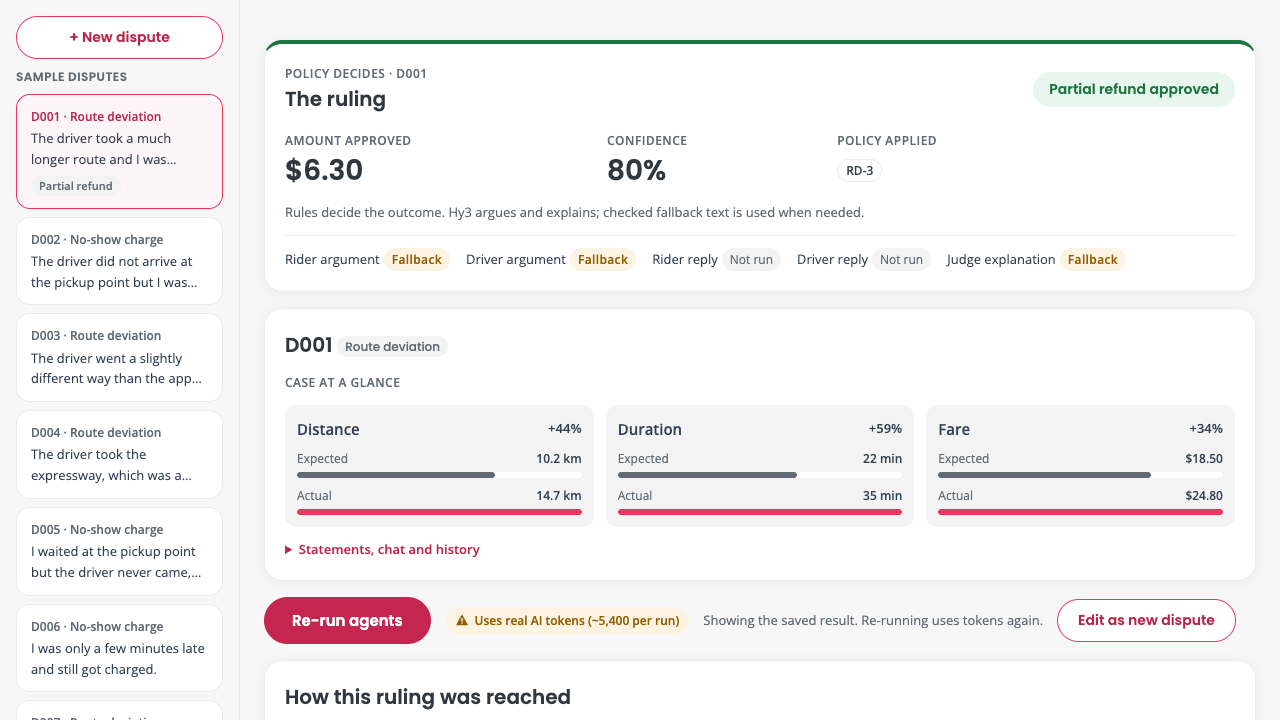
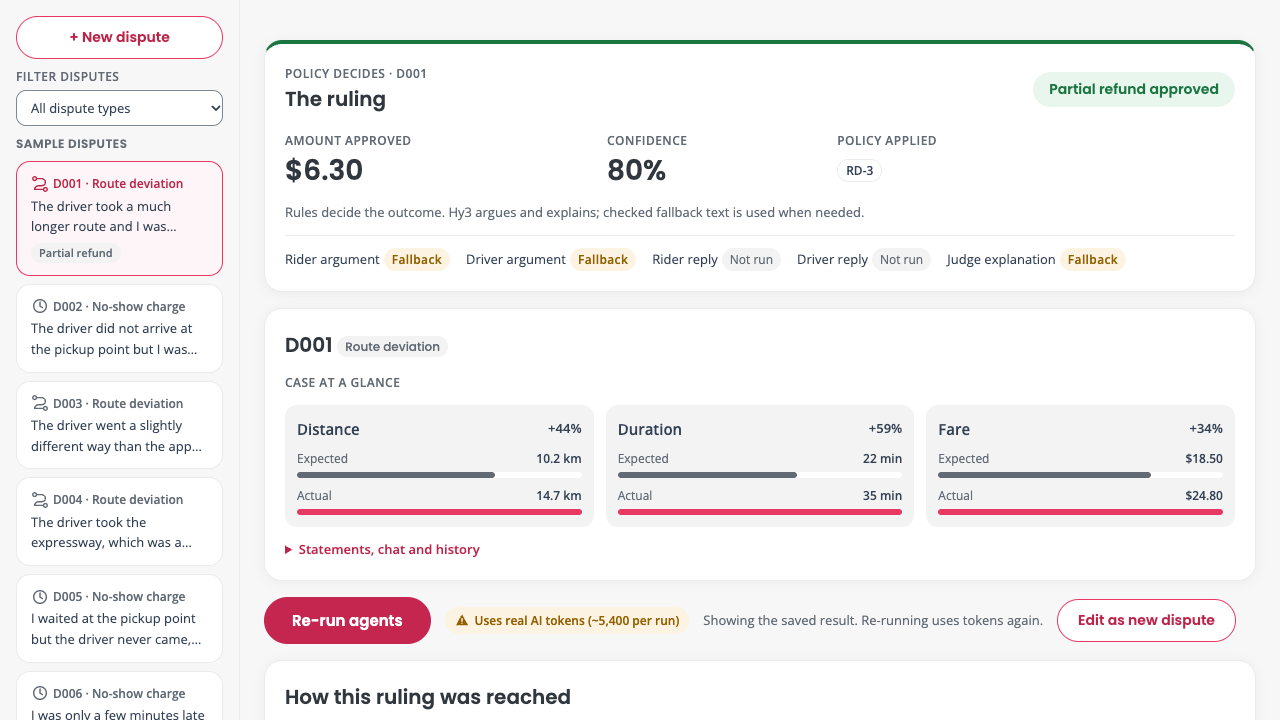
Update final demo layouts and accessibility verification

Changed region(s): [[0.0, 0.0917, 0.1562, 1.0], [0.1562, 0.1222, 0.1875, 0.1528]]

diff --git a/docs/review/frontend-polish/README.md b/docs/review/frontend-polish/README.md
@@ -51,3 +51,34 @@ list sometimes differ in length. IDs are displayed only when supplied lists alig
 frontend does not guess new IDs or alter any evidence. Source labels are display categories,
 with unrecognised text retained as “Case evidence”. Skipped rebuttals remain visibly empty,
 with no simulated AI reply. The existing build/dev-tool dependency advisories are unchanged.
+
+## P2 added after the P1 push
+
+- Clicking an unambiguous evidence ID opens its reference list, scrolls to the exact fact
+  and focuses/highlights it. The same action works from rebuttal evidence and on repeated
+  selection after closing the reference list. Contradictory ID/text pairs are not linked.
+- Sidebar route/clock icons are decorative inline SVGs; the labelled type filter keeps
+  current selection and cached resolved badges. It does not run agents or auto-select a case.
+- Presentation mode increases body, controls and metadata type sizes for projectors. The
+  pressed-state button persists a boolean preference in localStorage; reads and writes
+  tolerate blocked storage. It still works for the current session if storage is unavailable.
+- **19 frontend tests pass**. Added tests for reference conflicts, stable filtering, and
+  enabled/disabled/blocked-storage preferences. TypeScript and the production build pass.
+- Browser tested filters, persisted mode after reload, blocked storage, repeated fact focus,
+  cached badges, and zero extra requests from these controls. An explicitly constructed
+  aligned-ID fixture exercised reference navigation; committed screenshots use the three
+  original offline responses and retain Fallback badges, without fabricated model output.
+- In presentation mode, all 162 sampled text nodes pass contrast: minimum **4.87:1 light**
+  and **4.58:1 dark**. No overflow at 1280×720 or 375×812. The full P1 regression checks
+  also pass after P2. No screen-reader speech testing was performed.
+
+Additional inspected views:
+
+- [Two debate rounds](debate-light.png)
+- [Honest loading on a projector](loading-projector.png), captured with a deliberately delayed
+  offline response; it shows no completed stages or simulated progress.
+- [Presentation mode on a projector](presentation-projector.png)
+
+The evidence-ID limitation above remains: unequal lists are preserved without a guessed
+mapping. Reference navigation is available only where the response supplies a unique,
+aligned ID/text pair. Nothing here changes that backend contract.
